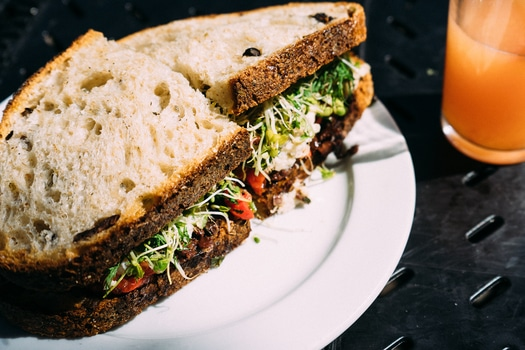
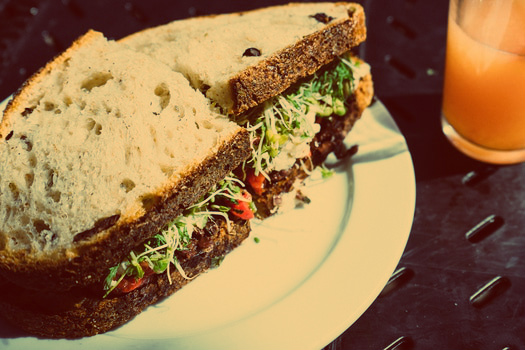
filter added to images, menu jquery functionality adjusted, lightbox gallery added

diff --git a/menu.html b/menu.html
@@ -9,7 +9,38 @@
     <meta name="description" content="">
     <meta name="author" content="">
 
+    <link href="https://fonts.googleapis.com/css?family=Amatic+SC" rel="stylesheet">
+    <link href="https://fonts.googleapis.com/css?family=Alfa+Slab+One" rel="stylesheet">
+
+
 <style>
+
+.page-header {
+  color: #537B9F;
+  font-family: 'Alfa Slab One', cursive;
+
+
+}
+
+a {
+  color: #537B9F;
+  font-family: 'Alfa Slab One', cursive;
+
+}
+
+h2 {
+  color: #5F6C77;
+}
+
+h3 {
+  color: #5F6C77;
+}
+
+h4 {
+  color: #5F6C77;
+}
+
+
 
     .description {
       display: none;
@@ -30,9 +61,41 @@
       }
 
 
-       .pagination {
-        font-size: 150%;
+.pagination {
+        font-size: 120%;
         }
+
+
+.wrapper {
+  wrapper
+  background-color: #B89C90;
+  font-family: 'Amatic SC', cursive;
+
+}
+#lightbox {
+  position:fixed; /* keeps the lightbox window in the current viewport */
+  top:0;
+  left:0;
+  width:100%;
+  height:100%;
+  background:url(overlay.png) repeat;
+  text-align:center;
+}
+#lightbox p {
+  text-align:right;
+  color:#fff;
+  margin-right:20px;
+  font-size:12px;
+}
+#lightbox img {
+  box-shadow:0 0 25px #111;
+  -webkit-box-shadow:0 0 25px #111;
+  -moz-box-shadow:0 0 25px #111;
+  max-width:940px;
+  margin:200px
+
+}
+
 
 </style>
 
@@ -53,7 +116,7 @@
 
 </head>
 
-<body>
+<body class="wrapper">
 
     <!-- Navigation -->
     <nav class="navbar navbar-inverse navbar-fixed-top" role="navigation">
@@ -106,7 +169,7 @@
         <div class="row text-center">
             <div class="col-lg-12">
                 <ul class="pagination">
-                    <li id="sandwiches">
+                    <li id="sandwiches" class="active">
                         <a id="sandwiches">Sandwiches</a>
                     </li>
                     <li id="snacks">
@@ -125,8 +188,8 @@
         <!-- Projects Row -->
         <div class="row" id="sandwiches">
             <div class="col-md-4 portfolio-item">
-                <a href="#">
-                    <img class="img-responsive" src="images/sandwich-1.jpg" alt="">
+                <a href="images/sandwich-1.jpg" class="lightbox_trigger">
+                    <img class="img-responsive" class="lightbox_trigger" src="images/sandwich-1.jpg" alt="">
                 </a>
                 <h3>
                     <a href="#">Humus</a>
@@ -134,8 +197,8 @@
                 <p class="description">Lorem ipsum dolor sit amet, consectetur adipiscing elit. Nam viverra euismod odio, gravida pellentesque urna varius vitae.</p>
             </div>
             <div class="col-md-4 portfolio-item">
-                <a href="#">
-                    <img class="img-responsive" src="images/sandwich-2.jpg" alt="">
+                <a href="images/sandwich-2.jpg" class="lightbox_trigger">
+                    <img class="img-responsive" class="lightbox_trigger" src="images/sandwich-2.jpg" alt="">
                 </a>
                 <h3>
                     <a href="#">Mozzerella</a>
@@ -143,8 +206,8 @@
                 <p class="description">Lorem ipsum dolor sit amet, consectetur adipiscing elit. Nam viverra euismod odio, gravida pellentesque urna varius vitae.</p>
             </div>
             <div class="col-md-4 portfolio-item">
-                <a href="#">
-                    <img class="img-responsive" src="images/sandwich-3.jpg" alt="">
+                <a href="images/sandwich-3.jpg" class="lightbox_trigger">
+                    <img class="img-responsive" class="lightbox_trigger" src="images/sandwich-3.jpg" alt="">
                 </a>
                 <h3>
                     <a href="#">Pulled pork</a>
@@ -157,8 +220,8 @@
         <!-- Projects Row -->
         <div class="row" id="sandwiches">
             <div class="col-md-4 portfolio-item">
-                <a href="#">
-                    <img class="img-responsive" src="images/sandwich-4.jpg" alt="">
+                <a href="images/sandwich-4.jpg" class="lightbox_trigger">
+                    <img class="img-responsive" class="lightbox_trigger" src="images/sandwich-4.jpg" alt="">
                 </a>
                 <h3>
                     <a href="#">Croissant</a>
@@ -166,8 +229,8 @@
                 <p class="description">Lorem ipsum dolor sit amet, consectetur adipiscing elit. Nam viverra euismod odio, gravida pellentesque urna varius vitae.</p>
             </div>
             <div class="col-md-4 portfolio-item">
-                <a href="#">
-                    <img class="img-responsive" src="images/sandwich-5.jpg" alt="">
+                <a href="images/sandwich-5.jpg" class="lightbox_trigger">
+                    <img class="img-responsive" class="lightbox_trigger" src="images/sandwich-5.jpg" alt="">
                 </a>
                 <h3>
                     <a href="#">Club sandwich - €3.50</a>
@@ -175,8 +238,8 @@
                 <p class="description">Lorem ipsum dolor sit amet, consectetur adipiscing elit. Nam viverra euismod odio, gravida pellentesque urna varius vitae.</p>
             </div>
             <div class="col-md-4 portfolio-item">
-                <a href="#">
-                    <img class="img-responsive" src="images/sandwich-6.jpg" alt="">
+                <a href="images/sandwich-6.jpg" class="lightbox_trigger">
+                    <img class="img-responsive" class="lightbox_trigger" src="images/sandwich-6.jpg" alt="">
                 </a>
                 <h3>
                     <a href="#">Toasted sandwich - €3</a>
@@ -197,7 +260,7 @@
             </div>
             <div class="col-md-4 portfolio-item">
                 <a href="#">
-                    <img class="img-responsive" src="images/coffee-2.png" alt="">
+                    <img id="light"class="img-responsive" src="images/coffee-2.png" alt="">
                 </a>
                 <h3>
                     <a href="#">Cappuccino</a>
@@ -322,7 +385,9 @@ $(document).ready(function(){
         $('div#snacks').hide();
         $('div#coffees').hide();
         $('div#cold-drinks').hide();
-        $('div#sandwiches').show();
+        $('div#sandwiches').animate({
+            height: 'toggle'
+        });
 
          $('li#snacks').removeClass("active");
          $('li#coffees').removeClass("active");
@@ -334,7 +399,9 @@ $(document).ready(function(){
         $('div#sandwiches').hide();
         $('div#coffees').hide();
         $('div#cold-drinks').hide();
-        $('div#snacks').show();
+        $('div#snacks').animate({
+            height: 'toggle'
+        });
 
 
          $('li#sandwiches').removeClass("active");
@@ -348,8 +415,9 @@ $(document).ready(function(){
         $('div#snacks').hide();
         $('div#sandwiches').hide();
         $('div#cold-drinks').hide();
-        $('div#coffees').show();
-
+        $('div#coffees').animate({
+            height: 'toggle'
+        });
 
          $('li#snacks').removeClass("active");
          $('li#sandwiches').removeClass("active");
@@ -362,7 +430,9 @@ $(document).ready(function(){
         $('div#snacks').hide();
         $('div#coffees').hide();
         $('div#sandwiches').hide();
-        $('div#cold-drinks').show();
+        $('div#cold-drinks').animate({
+            height: 'toggle'
+        });
 
          $('li#snacks').removeClass("active");
          $('li#coffees').removeClass("active");
@@ -371,6 +441,54 @@ $(document).ready(function(){
       });
 
   });
+
+  $('.lightbox_trigger').click(function(e) {
+
+		//prevent default action (hyperlink)
+		e.preventDefault();
+
+		//Get clicked link href
+		var image_href = $(this).attr("href");
+
+		/*
+		If the lightbox window HTML already exists in document,
+		change the img src to to match the href of whatever link was clicked
+
+		If the lightbox window HTML doesn't exists, create it and insert it.
+		(This will only happen the first time around)
+		*/
+
+		if ($('#lightbox').length > 0) { // #lightbox exists
+
+			//place href as img src value
+			$('#content').html('<img src="' + image_href + '" />');
+
+			//show lightbox window - you could use .show('fast') for a transition
+			$('#lightbox').show();
+		}
+
+		else { //#lightbox does not exist - create and insert (runs 1st time only)
+
+			//create HTML markup for lightbox window
+			var lightbox =
+			'<div id="lightbox">' +
+				'<p>Click to close</p>' +
+				'<div id="content">' + //insert clicked link's href into img src
+					'<img src="' + image_href +'" />' +
+				'</div>' +
+			'</div>';
+
+			//insert lightbox HTML into page
+			$('body').append(lightbox);
+		}
+
+	});
+
+
+	//Click anywhere on the page to get rid of lightbox window
+	$('#lightbox').live('click', function() { //must use live, as the lightbox element is inserted into the DOM
+		$('#lightbox').hide();
+	});
 
 
 
